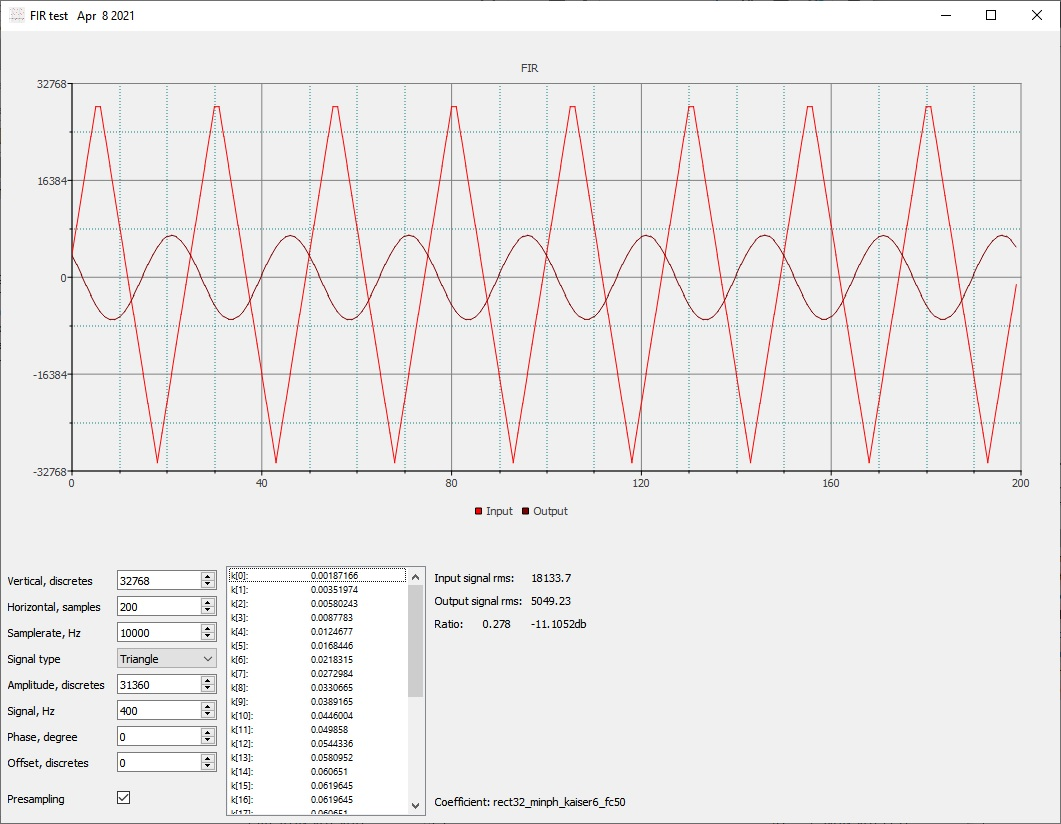
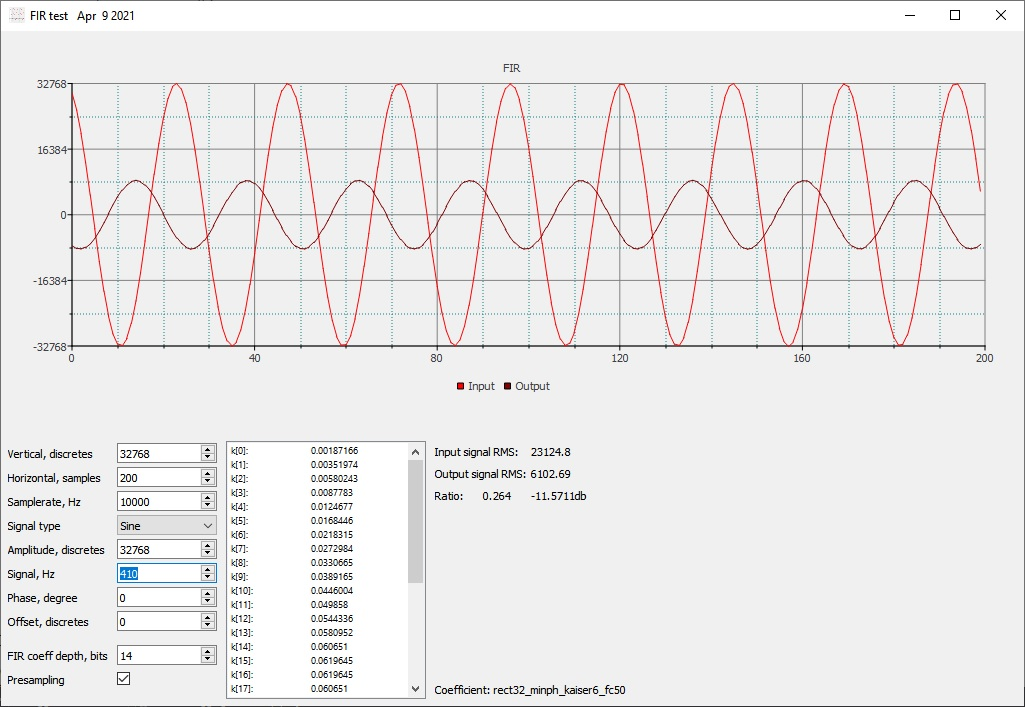
Signed-off-by: lema <lema_01_@mail.ru>

diff --git a/qt_app/mainwindow.cpp b/qt_app/mainwindow.cpp
@@ -26,8 +26,6 @@ void MainWindow::rebuild_signal(void)
 	double phase = ui->spinBox_phase->value();
 	double degree_per_sample = (double)ui->spinBox_signal->value() / (double)ui->spinBox_samplerate->value() * 360.0;
 
-	int16_t fir_in[10000], fir_out[10000];
-
 	for (auto i : series)
 		i->clear();
 
@@ -68,27 +66,22 @@ void MainWindow::rebuild_signal(void)
 		}
 
 		value += ui->spinBox_offset->value();
-		if (value >= ui->spinBox_vert->value())
-			value = ui->spinBox_vert->value() - 1;
-		else if (value <= -ui->spinBox_vert->value())
-			value = -ui->spinBox_vert->value() + 1;
+		if (value >= ampl)
+			value = ampl - 1;
+		else if (value <= -ampl)
+			value = -ampl + 1;
 
-		if (presamp)
-		{
-			if (i >= fir_int_ctx.taps)
-				series.at(0)->append(i - fir_int_ctx.taps, value);
-		}
-		else
-			series.at(0)->append(i, value);
 		fir_in[i] = value;
 	}
 
-	fir_int_ctx.out = fir_out;
-	fir_int_ctx.len = presamp ? ui->spinBox_hor->value() + fir_int_ctx.taps : ui->spinBox_hor->value();
-	fir_int_calc(&fir_int_ctx, fir_in);
+	uint32_t len = presamp ? ui->spinBox_hor->value() + fir_int_ctx.taps : ui->spinBox_hor->value();
+	fir_int_calc(&fir_int_ctx, fir_in, len);
 
 	for (int i = 0; i < ui->spinBox_hor->value(); i++)
+	{
 		series.at(1)->append(i, fir_int_ctx.out[presamp ? i + fir_int_ctx.taps : i]);
+		series.at(0)->append(i, fir_in[presamp ? i + fir_int_ctx.taps : i]);
+	}
 
 	double rms_in = 0, rms_out = 0;
 	double tmp_in, tmp_out;
@@ -106,9 +99,13 @@ void MainWindow::rebuild_signal(void)
 	ratio = rms_out / rms_in;
 	db = log10(ratio) * 20;
 
-	ui->label_rms_in->setText(QString("Input signal rms:\t%1").arg(rms_in, 0, 'g', 6));
-	ui->label_rms_out->setText(QString("Output signal rms:\t%1").arg(rms_out, 0, 'g', 6));
+	ui->label_rms_in->setText(QString("Input signal RMS:\t%1").arg(rms_in, 0, 'g', 6));
+	ui->label_rms_out->setText(QString("Output signal RMS:\t%1").arg(rms_out, 0, 'g', 6));
 	ui->label_db->setText(QString("Ratio:\t%1\t%2db").arg(ratio, 0, 'g', 3).arg(db, 0, 'g', 6));
+}
+
+void MainWindow::rebuild_frequency_response(void)
+{
 
 }
 
@@ -148,7 +145,7 @@ MainWindow::MainWindow(QWidget *parent) :
 
 	chart = new QChart();
 
-	fir_int_init(&fir_int_ctx, coeff_f.data(), coeff_i.data(), 0);
+	fir_int_init(&fir_int_ctx, coeff_f.data(), coeff_i.data(), coeff_i.size(), fir_out, ui->spinBox_coeff_depth->value());
 	rebuild_charts();
 	rebuild_signal();
 
@@ -222,6 +219,13 @@ void MainWindow::on_spinBox_offset_valueChanged(int i)
 	rebuild_signal();
 }
 
+void MainWindow::on_spinBox_coeff_depth_valueChanged(int i)
+{
+	(void) i;
+	fir_int_init(&fir_int_ctx, coeff_f.data(), coeff_i.data(), coeff_i.size(), fir_out, ui->spinBox_coeff_depth->value());
+	rebuild_signal();
+}
+
 void MainWindow::on_checkBox_presamp_stateChanged(int state)
 {
 	(void) state;
@@ -279,7 +283,7 @@ void MainWindow::on_listView_customContextMenuRequested(QPoint p)
 		{
 			coeff_f = _env.get_coeff(name);
 			coeff_i.resize(coeff_f.size());
-			fir_int_init(&fir_int_ctx, coeff_f.data(), coeff_i.data(), coeff_i.size());
+			fir_int_init(&fir_int_ctx, coeff_f.data(), coeff_i.data(), coeff_i.size(), fir_out, ui->spinBox_coeff_depth->value());
 
 			QStringList list;
 			for(int i = 0; i < coeff_f.size(); i++)
@@ -297,14 +301,14 @@ void MainWindow::on_listView_customContextMenuRequested(QPoint p)
 		{
 			coeff_f = string_to_coeff(mimeData->text());
 			coeff_i.resize(coeff_f.size());
-			fir_int_init(&fir_int_ctx, coeff_f.data(), coeff_i.data(), fir_int_ctx.taps);
+			fir_int_init(&fir_int_ctx, coeff_f.data(), coeff_i.data(), coeff_i.size(), fir_out, ui->spinBox_coeff_depth->value());
 
 			QStringList list;
 			for(int i = 0; i < coeff_f.size(); i++)
 				list.append(QString("k[%1]:\t%2").arg(i).arg(coeff_f.at(i)));
 			list_model.setStringList(list);
 			rebuild_signal();
-			ui->label_coeff_name->setText(QString("Coefficient: %1").arg("custom"));
+			ui->label_coeff_name->setText(QString("Coefficients: %1").arg("custom"));
 		}
 	});
 

diff --git a/fir_int/fir_int.c b/fir_int/fir_int.c
@@ -1,19 +1,20 @@
 #include "fir_int.h"
 
-void fir_int_init(fir_int_ctx_t *ctx, double *coeff_f, int32_t *coeff_i, uint32_t taps)
+void fir_int_init(fir_int_ctx_t *ctx, double *coeff_f, int32_t *coeff_i, uint32_t taps, int16_t *out, uint32_t coeff_depth)
 {
 	ctx->step = 0;
-	ctx->len = 0;
 	ctx->taps = taps;
 	ctx->coeff = coeff_i;
+	ctx->out = out;
+	ctx->coeff_depth = coeff_depth;
 	for (uint32_t i = 0; i < ctx->taps; i++)
-		ctx->coeff[i] = coeff_f[i] * 0xFFFF;
+		ctx->coeff[i] = coeff_f[i] * (1 << ctx->coeff_depth);
 }
 
-void fir_int_calc(fir_int_ctx_t *ctx, int16_t *in)
+void fir_int_calc(fir_int_ctx_t *ctx, int16_t *in, uint32_t len)
 {
 	ctx->step = 0;
-	for (uint32_t i = 0; i < ctx->len; i++)
+	while (len--)
 		fir_int_bystep_calc(ctx, in);
 }
 
@@ -25,6 +26,6 @@ inline void fir_int_bystep_calc(fir_int_ctx_t *ctx, int16_t *in)
 		if (ctx->step >= j)
 			tmp += in[ctx->step - j] * ctx->coeff[j];
 	}
-	ctx->out[ctx->step] = tmp >> 16;
+	ctx->out[ctx->step] = tmp >> ctx->coeff_depth;
 	ctx->step++;
 }

diff --git a/qt_app/mainwindow.h b/qt_app/mainwindow.h
@@ -40,14 +40,16 @@ public:
 private:
 	void rebuild_charts(void);
 	void rebuild_signal(void);
+	void rebuild_frequency_response(void);
+
+	int16_t fir_in[10000], fir_out[10000];
 
 	Ui::MainWindow *ui;
 	QVector<QLineSeries *> series;
 	QChartView *chartView;
 	QChart *chart;
-	QTimer *timer;
-	QStringListModel list_model;
 
+	QStringListModel list_model;
 	QVector<double> coeff_f;
 	QVector<int32_t> coeff_i;
 	fir_int_ctx_t fir_int_ctx;
@@ -61,6 +63,7 @@ public slots:
 	void on_spinBox_ampl_valueChanged(int i);
 	void on_spinBox_phase_valueChanged(int i);
 	void on_spinBox_offset_valueChanged(int i);
+	void on_spinBox_coeff_depth_valueChanged(int i);
 	void on_comboBox_signal_currentIndexChanged(int index);
 	void on_listView_customContextMenuRequested(QPoint p);
 	void on_checkBox_presamp_stateChanged(int state);

diff --git a/fir_int/fir_int.h b/fir_int/fir_int.h
@@ -40,14 +40,14 @@ const double rect16_minph_kaiser6_fc50[] =
 typedef struct
 {
 	uint32_t taps;
-	uint32_t len;
 	uint32_t step;
+	uint32_t coeff_depth;
 	int32_t *coeff;
 	int16_t *out;
 } fir_int_ctx_t;
 
-void fir_int_init(fir_int_ctx_t *ctx, double *coeff_f, int32_t *coeff_i, uint32_t taps);
-void fir_int_calc(fir_int_ctx_t *ctx, int16_t *in);
+void fir_int_init(fir_int_ctx_t *ctx, double *coeff_f, int32_t *coeff_i, uint32_t taps, int16_t *out, uint32_t coeff_depth);
+void fir_int_calc(fir_int_ctx_t *ctx, int16_t *in, uint32_t len);
 void fir_int_bystep_calc(fir_int_ctx_t *ctx, int16_t *in);
 
 #ifdef __cplusplus
